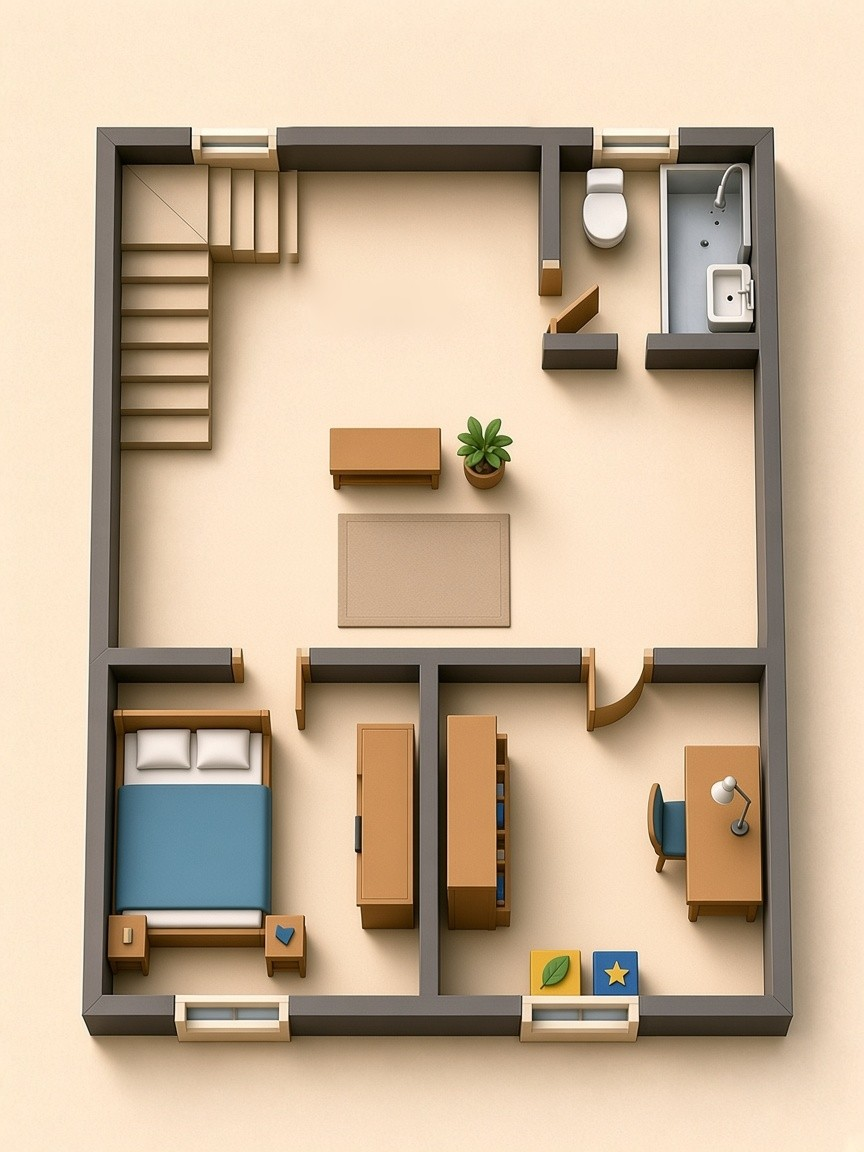
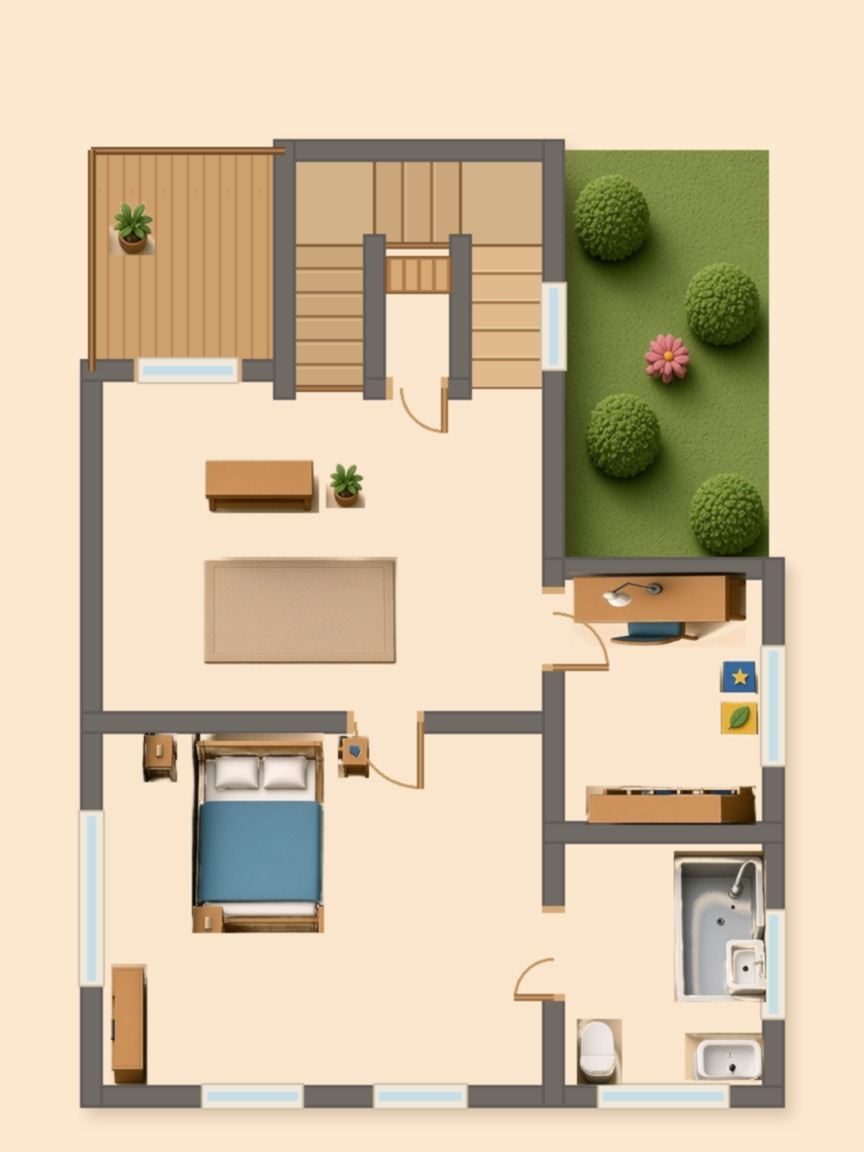
nes v0.6.35: house maps redrawn on the approved L footprint - open garden by the kitchen, three-run stairs with two landings from the middle of the living room, balcony, en-suite above Grandma's, study above the kitchen only; map spots and deduction zones moved (cutscene 1.0.2, event-01 1.0.10, even

diff --git a/games/never-ending-story/src/modules/cutscene/registry.ts b/games/never-ending-story/src/modules/cutscene/registry.ts
@@ -49,9 +49,9 @@ export const ARTWORKS: Artwork[] = [
     file: 'house-map.jpg',
     usedIn: ['prologue', 'event-01', 'jigsaw'],
     characterIds: [],
-    prompt: `${STYLE} Top-down clay miniature floor plan of the ground floor of Grandma's modern two-storey house on cream paper, no labels. Top of the image is the front: front steps and door in the middle of the top wall; front strip with the staircase (top-left), entrance hall with shoe rack (top-middle) and a bathroom (top-right). Full-width living room in the middle with the sofa against its bottom wall facing the entrance, coffee table and rug in front, teal armchair to the right with a low bookshelf against the bottom wall between the sofa and the kitchen door, side table and blue star box to the left. Back: Grandma's bedroom bottom-left (bed, wardrobe, nothing under the window; the photo boxes live in the upstairs study), kitchen bottom-right entered from a door at the right of its top wall (L counter along the right wall with the sink under a window and along the bottom wall with the stove left of centre, patterned rug near the door on the left, no dining table). Used as the house plan and as the jigsaw photo.`,
+    prompt: `${STYLE} Top-down clay miniature floor plan of the ground floor of Grandma's modern two-storey house on cream paper, no labels. L-shaped footprint, top of the image is the front. Front door with steps at the left of the top wall into an entrance hall with a shoe rack (top-left). Stairs in the top middle, 0.9 m wide: the foot opens into the middle of the living room's front wall, run 1 (6 treads) climbs toward the front, a flat corner landing, run 2 (3 treads) to the right along the front wall, a second flat landing in the front-right corner, run 3 (5 treads) climbs toward the back; 15 risers. A small guest toilet under runs 2-3, its door right beside the stair foot. An open lawn garden with round bushes beside the house at the top-right (no building there). Living room across the middle: rug, coffee table with two flowers, tan sofa against the back wall facing the front, side table with the blue star box on its left, teal armchair on its right, low bookshelf by the kitchen door. Grandma's bedroom across the back-left, door at the left end of the living room's back wall, bed with its head on the top wall, wardrobe bottom-left, windows on the left and bottom walls. Right wing: kitchen entered from a door near the back of the living room's right wall (counter and sink under a window along its top wall looking onto the garden, stove counter along its right wall, patterned rug by the door), and below it Grandma's en-suite of the same depth, opened only from her bedroom. Used as the house plan and as the case-challenge jigsaw photo.`,
     negative: `${NEGATIVE}, text, labels, letters`,
-    styleNotes: `Generated 2026-11-22 for house v2 phase 1 (docs/design/house-v2-proposal.md). The living-room camera stands at the entrance looking down the plan, so the kitchen is on the left of living-wide.jpg and the bedroom door on the right. Furniture follows each room camera (cutscene 1.0.2): living-wide, study-wide and kitchen-wide all look down the plan from their doors, so scene-left is plan-right; kitchen and living bookshelf were edited by hand on 2026-11-22 to match, and the bedroom boxes were removed when the study moved upstairs (house v2 phase 2). Owner rule (2026-11-22): looking into the kitchen from its door the window is on the left and Grandma's bedroom side on the right, so kitchen-wide.jpg and kitchen-close.jpg are mirrored and the plan has the sink and window on the right wall and the stove on the bottom counter (stove and sink swapped by hand on the plan, owner request). Keep the room footprint: the deduction map zones in event-core FlowView depend on it. ${sheet}`,
+    styleNotes: `Generated 2026-11-22 for house v2 phase 1 (docs/design/house-v2-proposal.md). Relaid out 2026-11-23 to the owner-approved L footprint (draft v9): composed on an exact layout grid from clay sprites of the earlier map and a style render, so walls, doors and windows match the approved plan. Room cameras stand at the door looking in: living-wide looks from the stair foot toward the back (kitchen door on the left of the picture, Grandma's door on the right); kitchen-wide looks from its door toward the right wing's far wall (window and sink on the left = garden side, Grandma's en-suite side on the right). Map spots and the deduction zones in event-core FlowView follow this footprint. ${sheet}`,
     promptSource: 'original',
     version: CUTSCENE_VERSION,
     order: 70,
@@ -61,9 +61,9 @@ export const ARTWORKS: Artwork[] = [
     file: 'house-map-2f.jpg',
     usedIn: ['event-01', 'jigsaw'],
     characterIds: [],
-    prompt: `${STYLE} Top-down clay miniature floor plan of the UPPER floor of Grandma's modern two-storey house on cream paper, same footprint, walls and framing as house-map.jpg, no labels, no front door. Staircase top-left in the same place as downstairs, small bathroom top-right, open upstairs hallway with a bench, plant and rug in the middle. Back: Uncle Mek and Auntie's bedroom bottom-left (double bed with two pillows, two bedside tables, wardrobe), the study bottom-right directly above the kitchen (door in its top wall, desk with chair and lamp against the right wall, tall bookshelf against the left wall, window in the bottom wall with a yellow leaf box and a blue star box under it, leaf box on the left).`,
+    prompt: `${STYLE} Top-down clay miniature floor plan of the UPPER floor of Grandma's modern two-storey house on cream paper, same L footprint and framing as house-map.jpg, no labels, no front door. The open stairwell over the ground-floor stairs (three runs, two landings, wooden balustrade) in the top middle, arriving at the front-right; a small storage cupboard between the runs; an outdoor wooden balcony with railings at the front-left above the entrance hall, glass door from the hall. The garden at the top-right stays open lawn. Open upstairs hall with a bench, plant and rug in the middle. Uncle Mek and Auntie's bedroom across the back (double bed with its head on the top wall, two bedside tables, wardrobe), their en-suite in the bottom-right directly above Grandma's, same size, opened only from their bedroom. The study above the kitchen only, door at the top of its left wall: desk with lamp and chair along its top wall, window in its right wall with a blue star box (upper) and a yellow leaf box (lower) under it, tall bookshelf along its bottom wall.`,
     negative: `${NEGATIVE}, text, labels, letters`,
-    styleNotes: `Generated 2026-11-22 for house v2 phase 2 by editing house-map.jpg, front strip patched from a second draft. The study-wide.jpg camera stands at the study door looking down the plan, so the desk on the left of the scene is on the plan's right wall and the leaf box sits left of the star box on the plan. Also the case jigsaw photo, because E04 points at the upstairs study. ${sheet}`,
+    styleNotes: `Generated 2026-11-22 for house v2 phase 2; relaid out 2026-11-23 to the owner-approved floor-2 draft v4 on the same grid as house-map.jpg. The study-wide.jpg camera stands at the study door (left wall) looking toward the right wall: desk on the picture's left = the plan's top wall, window on the far wall = the plan's right wall, bookshelf on the right = the plan's bottom wall, so the star box sits above the leaf box on the plan. Also the event jigsaw photo, because E04 points at the upstairs study. ${sheet}`,
     promptSource: 'original',
     version: CUTSCENE_VERSION,
     order: 71,

diff --git a/games/never-ending-story/src/modules/event-core/FlowView.svelte b/games/never-ending-story/src/modules/event-core/FlowView.svelte
@@ -263,12 +263,12 @@
             <div class="minis">
               <div class="mini" style="background-image:url('{imageUrl(artworkFile('prologue.house-map'))}')">
                 <span class="fl">{mapFloors[0]?.title ?? '1'}</span>
-                <button type="button" class:sel={session.picks[index] === 'living'} style="left:11%;top:12%;width:78%;height:44%" aria-label="ห้องนั่งเล่น" onclick={() => session.pickAnswer(index, 'living')}></button>
-                <button type="button" class:sel={session.picks[index] === 'kitchen'} style="left:51%;top:57%;width:39%;height:31%" aria-label="ครัว" onclick={() => session.pickAnswer(index, 'kitchen')}></button>
+                <button type="button" class:sel={session.picks[index] === 'living'} style="left:10.5%;top:34%;width:53.5%;height:28.7%" aria-label="ห้องนั่งเล่น" onclick={() => session.pickAnswer(index, 'living')}></button>
+                <button type="button" class:sel={session.picks[index] === 'kitchen'} style="left:64%;top:49.3%;width:25.5%;height:22.9%" aria-label="ครัว" onclick={() => session.pickAnswer(index, 'kitchen')}></button>
               </div>
               <div class="mini" style="background-image:url('{imageUrl(artworkFile('house.map-2f'))}')">
                 <span class="fl">{mapFloors[1]?.title ?? '2'}</span>
-                <button type="button" class:sel={session.picks[index] === 'study'} style="left:51%;top:57%;width:39%;height:31%" aria-label="ห้องทำงาน" onclick={() => session.pickAnswer(index, 'study')}></button>
+                <button type="button" class:sel={session.picks[index] === 'study'} style="left:64%;top:49.3%;width:25.5%;height:22.9%" aria-label="ห้องทำงาน" onclick={() => session.pickAnswer(index, 'study')}></button>
               </div>
             </div>
             <p>{question.answers.find((answer) => answer.value === session.picks[index])?.title ?? 'แตะห้องบนแผนผัง'}</p>

diff --git a/games/never-ending-story/src/modules/cutscene/GDD.md b/games/never-ending-story/src/modules/cutscene/GDD.md
@@ -54,6 +54,6 @@ core >=0.6.13, character ^1.0.0 ผู้ใช้: โปรล็อก, event
 ## 13. Changelog (ผูกกับเวอร์ชันโมดูล)
 | เวอร์ชัน | แอป | การเปลี่ยนแปลง |
 |---|---|---|
-| 1.0.2 | 0.6.35 | `cutscene-01-p2.jpg` ช่องล่าง: หนูกอดย่ามะลิ (เดิมกอดแม่) ที่ประตูหน้าบ้าน ชุดและผมย่าตรงกับช่องกลาง ช่องบนและกลางคงเดิมแบบไม่บีบอัดซ้ำ `case-01.p2` เหลือตัวละคร grandma, player และแก้ `house-map.jpg` ให้ตรงมุมกล้องของแต่ละห้อง (กล้องยืนที่ประตูมองลงล่างของแผนที่ ซ้ายภาพจึงเป็นขวาแผนที่): ครัวเอาโต๊ะกินข้าวออก เคาน์เตอร์รูปตัว L ชิดผนังขวา (ซิงก์ใต้หน้าต่าง) กับผนังล่าง (เตา) พรมลายใกล้ประตูฝั่งซ้าย (สลับเตากับซิงก์ตามที่เจ้าของเกมขอ มองจากประตูครัวหน้าต่างอยู่ซ้าย ฝั่งห้องนอนย่าอยู่ขวา) ห้องนอนย่าสลับกล่องเป็นกล่องเหลืองซ้าย กล่องดาวขวา ห้องนั่งเล่นย้ายชั้นหนังสือจากผนังขวาไปชิดผนังล่างข้างโซฟา ผังห้องเดิม โซนแผนที่และจุดแตะไม่เปลี่ยน เพิ่ม `house-map-2f.jpg` แผนผังชั้น 2 (ห้องทำงานเหนือครัว ห้องลุงเมฆกับป้า) เอากล่องออกจากห้องนอนย่าใน `house-map.jpg` และกลับภาพ `kitchen-wide.jpg` กับ `kitchen-close.jpg` ซ้ายขวาตามที่เจ้าของเกมขอ ภาพครัวมุมกว้างสลับแจกันกับหม้อ แจกันไปอยู่ใต้ผ้าเช็ดมือให้ตรงกับภาพซูม |
+| 1.0.2 | 0.6.35 | `cutscene-01-p2.jpg` ช่องล่าง: หนูกอดย่ามะลิ (เดิมกอดแม่) ที่ประตูหน้าบ้าน ชุดและผมย่าตรงกับช่องกลาง ช่องบนและกลางคงเดิมแบบไม่บีบอัดซ้ำ `case-01.p2` เหลือตัวละคร grandma, player และแก้ `house-map.jpg` ให้ตรงมุมกล้องของแต่ละห้อง (กล้องยืนที่ประตูมองลงล่างของแผนที่ ซ้ายภาพจึงเป็นขวาแผนที่): ครัวเอาโต๊ะกินข้าวออก เคาน์เตอร์รูปตัว L ชิดผนังขวา (ซิงก์ใต้หน้าต่าง) กับผนังล่าง (เตา) พรมลายใกล้ประตูฝั่งซ้าย (สลับเตากับซิงก์ตามที่เจ้าของเกมขอ มองจากประตูครัวหน้าต่างอยู่ซ้าย ฝั่งห้องนอนย่าอยู่ขวา) ห้องนอนย่าสลับกล่องเป็นกล่องเหลืองซ้าย กล่องดาวขวา ห้องนั่งเล่นย้ายชั้นหนังสือจากผนังขวาไปชิดผนังล่างข้างโซฟา ผังห้องเดิม โซนแผนที่และจุดแตะไม่เปลี่ยน เพิ่ม `house-map-2f.jpg` แผนผังชั้น 2 (ห้องทำงานเหนือครัว ห้องลุงเมฆกับป้า) เอากล่องออกจากห้องนอนย่าใน `house-map.jpg` และกลับภาพ `kitchen-wide.jpg` กับ `kitchen-close.jpg` ซ้ายขวาตามที่เจ้าของเกมขอ ภาพครัวมุมกว้างสลับแจกันกับหม้อ แจกันไปอยู่ใต้ผ้าเช็ดมือให้ตรงกับภาพซูม วาด `house-map.jpg` และ `house-map-2f.jpg` ใหม่ตามผังบ้านทรงตัว L ที่เจ้าของอนุมัติ: สวนโล่งข้างครัว บันไดสามช่วงมีชานพักสองจุด (15 ลูกตั้ง) เริ่มกลางผนังหน้าห้องนั่งเล่นข้างประตูห้องน้ำแขก ชั้น 2 มีระเบียงหน้าซ้าย ตู้เก็บของ ห้องน้ำลุงเมฆซ้อนอยู่บนห้องน้ำย่าขนาดเท่ากัน และห้องทำงานอยู่เหนือครัวเท่านั้น กล่องดาวอยู่เหนือกล่องใบไม้บนผัง |
 | 1.0.1 | 0.6.34 | วาด `cutscene-01-p2.jpg` ใหม่เป็นบ้านสมัยใหม่สองชั้นตอนเช้า (เดิมเป็นเรือนไม้ใต้ถุนสูงตอนเย็น) ตัวละครชุดเดิม และวาด `house-map.jpg` ใหม่ ทางเข้าอยู่ด้านบน โซฟาชิดผนังล่างของห้องนั่งเล่น มีบันไดกับห้องน้ำแถวหน้า ห้องซ้ายล่างเป็นห้องนอนย่า สัดส่วน 3:4 เท่าเดิม พรอมต์ของสองภาพนี้เป็น `original` |
 | 1.0.0 | 0.6.13 | ทะเบียนภาพฉากที่ใช้จริง พรอมต์เขียนใหม่จากภาพ |

diff --git a/games/never-ending-story/src/modules/event-core/GDD.md b/games/never-ending-story/src/modules/event-core/GDD.md
@@ -65,7 +65,7 @@ core >=0.6.24, minigame-core ^1.0.0, crossword, jigsaw, slide ^1.0.0, stirfry ^1
 ## 13. Changelog (ผูกกับเวอร์ชันโมดูล)
 | เวอร์ชัน | แอป | การเปลี่ยนแปลง |
 |---|---|---|
-| 1.2.9 | 0.6.35 | ถ้าจะออกจากเหตุการณ์ที่ยังเล่นอยู่ ต้องยืนยันก่อน เพราะการออกจะรีเซ็ตรอบนั้น ถ้าไม่ยืนยัน หรือเปิดเกมใหม่ขณะที่รอบยังไม่จบ ให้กลับมาที่เหตุการณ์เดิมพร้อมสถานะที่เก็บไว้ พลังย้อนเวลาที่นาฬิกาปรากฏเมื่อมีเบาะแสแล้วเท่านั้น ไม่โชว์คำใบ้ ??? เอง ย้อนวันด้วยปฏิทินยังล็อก ข้อความได้หลักฐานอยู่ด้านล่างหลังปิดบทหรือโน้ต `FLOW_DATA_REV` เป็น 0.6.35 แผนผังบ้านมีปุ่มสลับชั้น 1/2 (ฉากมี `floors` จุดแตะมี `floor`) แตะบันไดเพื่อเปลี่ยนชั้น ห้องที่ล็อกใช้ action `locked` ข้อความสั้นขึ้นแถบข้อความด้านล่างแทนคำบรรยายฉาก หน้าสรุปคดีแสดงแผนผังทั้งสองชั้น และจิ๊กซอว์ในคดีใช้แผนผังชั้น 2 |
+| 1.2.9 | 0.6.35 | ถ้าจะออกจากเหตุการณ์ที่ยังเล่นอยู่ ต้องยืนยันก่อน เพราะการออกจะรีเซ็ตรอบนั้น ถ้าไม่ยืนยัน หรือเปิดเกมใหม่ขณะที่รอบยังไม่จบ ให้กลับมาที่เหตุการณ์เดิมพร้อมสถานะที่เก็บไว้ พลังย้อนเวลาที่นาฬิกาปรากฏเมื่อมีเบาะแสแล้วเท่านั้น ไม่โชว์คำใบ้ ??? เอง ย้อนวันด้วยปฏิทินยังล็อก ข้อความได้หลักฐานอยู่ด้านล่างหลังปิดบทหรือโน้ต `FLOW_DATA_REV` เป็น 0.6.35 แผนผังบ้านมีปุ่มสลับชั้น 1/2 (ฉากมี `floors` จุดแตะมี `floor`) แตะบันไดเพื่อเปลี่ยนชั้น ห้องที่ล็อกใช้ action `locked` ข้อความสั้นขึ้นแถบข้อความด้านล่างแทนคำบรรยายฉาก หน้าสรุปคดีแสดงแผนผังทั้งสองชั้น และจิ๊กซอว์ในคดีใช้แผนผังชั้น 2 โซนแตะห้องบนแผนผังย่อในกระดานสรุปคดีย้ายตามผังบ้านใหม่ (ห้องนั่งเล่นกลางชั้น 1 ครัวและห้องทำงานที่ปีกขวา) |
 | 1.2.8 | 0.6.34 | คำบรรยายฉากอยู่แถบด้านบนเหนือภาพ ไม่ทับหน้าตัวละคร ลูกโป่งมีระยะขอบในและไม่ชิดขอบภาพ เลี่ยงพื้นที่หน้าตัวละครตามมาสก์ในข้อมูลฉาก ตำแหน่งที่แต่งไว้เป็นค่าเริ่มต้น เมื่อเล่นซ้ำ รีเซ็ตสถานะของรอบนั้นกลับค่าเริ่มต้น แต่เก็บคดีที่ไขแล้ว การปลดล็อกมินิเกม และคะแนนสูงสุด |
 | 1.2.7 | 0.6.33 | คำบรรยายฉากย้ายขึ้นไปอยู่ด้านบนของทุกหน้า (อ่านก่อนบทพูด) ใต้แถบหัวและป้ายเวอร์ชัน ลูกโป่งบทพูดถูกดันลงไม่ให้ทับคำบรรยาย จุดบอกหน้า คำแนะนำแตะ และปุ่มข้ามอยู่ด้านล่างเหมือนเดิม |
 | 1.2.6 | 0.6.32 | ฉากการ์ตูนเปิดเรื่อง: แถบล่างเรียงเป็นชั้นเดียว คำบรรยายไม่ถูกบัง เอาป้าย "หน้า x/3" ปุ่มก่อนหน้า และปุ่มข้ามไปแผนผังออก เหลือปุ่มข้ามปุ่มเดียว ปัดจอเพื่อเปลี่ยนหน้า |

diff --git a/games/never-ending-story/src/modules/event-01/GDD.md b/games/never-ending-story/src/modules/event-01/GDD.md
@@ -51,7 +51,7 @@ event-core ^1.2.4, core >=0.6.24, crossword, jigsaw, slide
 ## 13. Changelog (ผูกกับเวอร์ชันโมดูล)
 | เวอร์ชัน | แอป | การเปลี่ยนแปลง |
 |---|---|---|
-| 1.0.10 | 0.6.35 | มาสก์หน้าฉากเปิดหน้า 2 ช่องล่างตามภาพใหม่: `p2-child-s3` และ `p2-grandma-s3` (เดิม `p2-mom-s3`) E02 ได้ตอนย้อนเวลาด้วยนาฬิกาแล้วเห็นน้ารินทำน้ำหก โต๊ะกลางตอนนี้มีแค่โน้ต ครัวให้หลักฐาน E06 (ผ้าเปียกและแจกันเติมน้ำใหม่) สมุดคดีเป็น 5 ชิ้น สรุปคดีล็อกจนกว่าจะได้ E02 พลังย้อนเวลาโชว์เมื่อมี E01 หรือ E06 ปฏิทินยังย้อนวันไม่ได้ โน้ตน้ารินเป็นลายมือพลิกได้ ข้อความหลักฐานอยู่ด้านล่างหลังปิด บ้านสองชั้น: ห้องทำงานย้ายขึ้นชั้น 2 เหนือครัว (id `study` เดิม เซฟเก่าใช้ต่อได้) ห้องนอนย่าชั้น 1 กับห้องลุงเมฆและป้าชั้น 2 ล็อกไว้ ประตูขวาในห้องนั่งเล่นเป็นประตูห้องนอนย่าที่ล็อก E04 ชี้ห้องทำงานชั้น 2 ภาพครัวกลับซ้ายขวาและจุดแตะครัวเปลี่ยนเป็น x = 100 − x |
+| 1.0.10 | 0.6.35 | มาสก์หน้าฉากเปิดหน้า 2 ช่องล่างตามภาพใหม่: `p2-child-s3` และ `p2-grandma-s3` (เดิม `p2-mom-s3`) E02 ได้ตอนย้อนเวลาด้วยนาฬิกาแล้วเห็นน้ารินทำน้ำหก โต๊ะกลางตอนนี้มีแค่โน้ต ครัวให้หลักฐาน E06 (ผ้าเปียกและแจกันเติมน้ำใหม่) สมุดคดีเป็น 5 ชิ้น สรุปคดีล็อกจนกว่าจะได้ E02 พลังย้อนเวลาโชว์เมื่อมี E01 หรือ E06 ปฏิทินยังย้อนวันไม่ได้ โน้ตน้ารินเป็นลายมือพลิกได้ ข้อความหลักฐานอยู่ด้านล่างหลังปิด บ้านสองชั้น: ห้องทำงานย้ายขึ้นชั้น 2 เหนือครัว (id `study` เดิม เซฟเก่าใช้ต่อได้) ห้องนอนย่าชั้น 1 กับห้องลุงเมฆและป้าชั้น 2 ล็อกไว้ ประตูขวาในห้องนั่งเล่นเป็นประตูห้องนอนย่าที่ล็อก E04 ชี้ห้องทำงานชั้น 2 ภาพครัวกลับซ้ายขวาและจุดแตะครัวเปลี่ยนเป็น x = 100 − x จุดแตะบนแผนผังบ้านย้ายตามผังใหม่: บันไดอยู่กลางด้านหน้า ครัวและห้องทำงานอยู่ปีกขวา ห้องย่าและห้องลุงเมฆอยู่ด้านหลัง (ยังล็อกเหมือนเดิม) |
 | 1.0.9 | 0.6.34 | ย้ายลูกโป่งบทพูดฉากเปิดไม่ให้ทับหน้าตัวละคร (หน้า 1 แม่, หน้า 2–3 ย่า) และใส่มาสก์หน้าในข้อมูลหน้าฉากเปิด หน้า 2 ชื่อ "ถึงบ้านย่า" คำบรรยาย "เช้าวันเสาร์ ครอบครัวมาถึงบ้านของคุณย่า" (เดิมบ้านไม้) จุดห้องนั่งเล่นบนแผนผังบ้านย้ายลงมาที่กลางห้องนั่งเล่น (y 41) ตามแผนผังใหม่ |
 | 1.0.8 | 0.6.33 | ฉากเปิดหน้า 1: แม่ตอบคุณย่าในสายว่า "ได้ค่ะคุณแม่ พรุ่งนี้พวกเราจะไปเยี่ยมนะคะ" (เดิมหันมาพูดกับหนู) หนูได้ยินแล้วดีใจ |
 | 1.0.7 | 0.6.25 | ข้อความคดีและบทพูดใช้ปู่ รูปปู่จากคดีวางได้ที่ชั้นของที่ระลึกในห้องของฉัน |

diff --git a/games/never-ending-story/docs/gdd/core.md b/games/never-ending-story/docs/gdd/core.md
@@ -71,7 +71,7 @@ D1: `players`, `player_state`, `player_events`, `player_home`, `runs` (มีค
 ## 13. Changelog (ผูกกับเวอร์ชันโมดูล)
 | เวอร์ชัน | แอป | การเปลี่ยนแปลง |
 |---|---|---|
-| 0.6.35 | 0.6.35 | ฉากเปิดหน้า 2 ช่องล่าง หนูกอดย่า ไม่ใช่แม่ (cutscene 1.0.2, character 1.0.2) ยืนยันก่อนออกจากเหตุการณ์ที่ยังเล่นอยู่ E02 ได้ตอนย้อนเวลาด้วยนาฬิกา โต๊ะกลางมีแค่โน้ต ครัวให้ E06 สมุดคดี 5 ชิ้น พลังย้อนเวลามาเมื่อมีเบาะแส ปฏิทินยังย้อนวันไม่ได้ โน้ตน้ารินเป็นลายมือพลิกได้ ข้อความหลักฐานอยู่ด้านล่างหลังปิด (event-01 1.0.10, event-core 1.2.9)  ปุ่มกระเป๋ากับสมุดคดีเป็นไอคอนวงกลม และซ่อนตอนเล่นมินิเกม แผนผังบ้านสองชั้น ห้องทำงานอยู่ชั้น 2 ห้องนอนย่ากับห้องลุงเมฆล็อกไว้ ภาพครัวกลับซ้ายขวา  ปุ่มแผนผังบ้านเป็นไอคอนแปลนบ้าน แสดงแม่กุญแจตอนยังล็อก และซ่อนตอนเล่นมินิเกม |
+| 0.6.35 | 0.6.35 | ฉากเปิดหน้า 2 ช่องล่าง หนูกอดย่า ไม่ใช่แม่ (cutscene 1.0.2, character 1.0.2) ยืนยันก่อนออกจากเหตุการณ์ที่ยังเล่นอยู่ E02 ได้ตอนย้อนเวลาด้วยนาฬิกา โต๊ะกลางมีแค่โน้ต ครัวให้ E06 สมุดคดี 5 ชิ้น พลังย้อนเวลามาเมื่อมีเบาะแส ปฏิทินยังย้อนวันไม่ได้ โน้ตน้ารินเป็นลายมือพลิกได้ ข้อความหลักฐานอยู่ด้านล่างหลังปิด (event-01 1.0.10, event-core 1.2.9)  ปุ่มกระเป๋ากับสมุดคดีเป็นไอคอนวงกลม และซ่อนตอนเล่นมินิเกม แผนผังบ้านสองชั้น ห้องทำงานอยู่ชั้น 2 ห้องนอนย่ากับห้องลุงเมฆล็อกไว้ ภาพครัวกลับซ้ายขวา  ปุ่มแผนผังบ้านเป็นไอคอนแปลนบ้าน แสดงแม่กุญแจตอนยังล็อก และซ่อนตอนเล่นมินิเกม แผนผังบ้านทั้งสองชั้นวาดใหม่ตามผังทรงตัว L ที่อนุมัติ พร้อมจุดแตะและโซนในกระดานสรุปคดี |
 | 0.6.34 | 0.6.34 | คำบรรยายฉากไม่ทับหน้าตัวละคร (แถบเหนือภาพ) ลูกโป่งไม่ทับหน้า และเล่นซ้ำรีเซ็ตสถานะรอบนั้น บ้านย่าเป็นบ้านสองชั้นสมัยใหม่: ภาพเปิดเรื่องและแผนผังบ้านใหม่ คำบรรยายโปรล็อกหน้า 2 เป็น "บ้านสองชั้นของคุณย่ามะลิ" (event-core 1.2.8, event-01 1.0.9, cutscene 1.0.1) |
 | 0.6.33 | 0.6.33 | คำบรรยายฉากการ์ตูนอยู่ด้านบน แม่ตอบคุณย่าในสาย (event-core 1.2.7, event-01 1.0.8) |
 | 0.6.32 | 0.6.32 | ฉากเปิดเรื่องไม่มีข้อความทับกัน ปัดจอเพื่อเปลี่ยนหน้า ไม่มีปุ่มก่อนหน้า (รวมบทนำ) event-core 1.2.6 |
